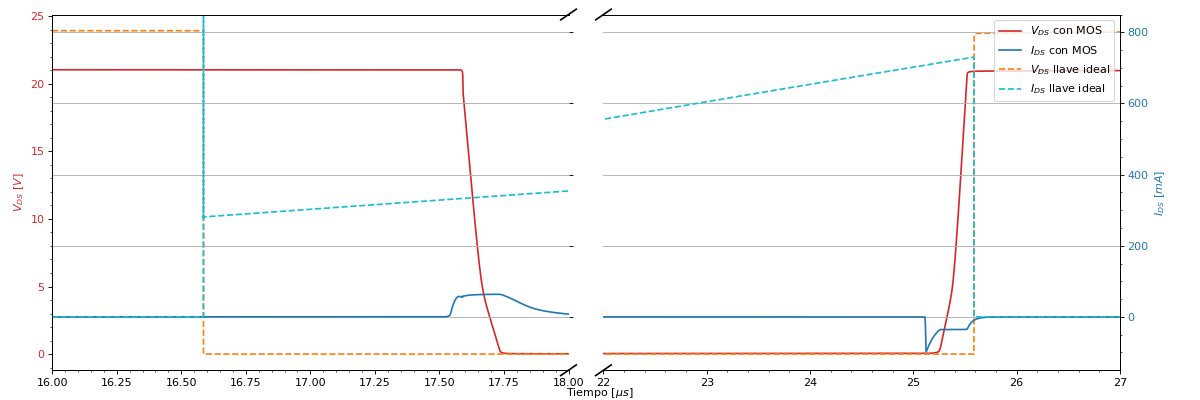
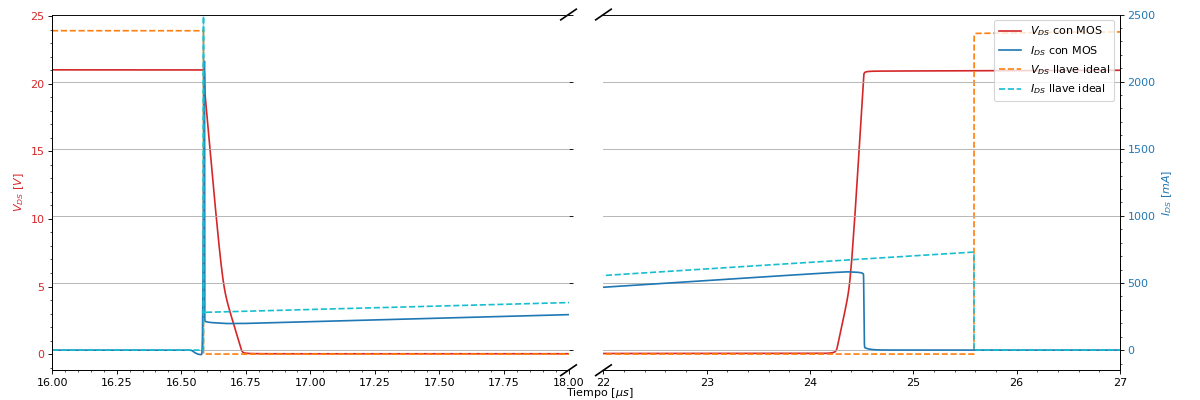
tatoguchi?

diff --git a/TP1/Ejercicio 3/Python/SpiceCurves.py b/TP1/Ejercicio 3/Python/SpiceCurves.py
@@ -160,7 +160,7 @@ t_ej2 = np.abs(np.asarray(LTR_punto2.get_trace(0).data))*1e6
 t_ej1 = np.abs(np.asarray(LTR_punto1.get_trace(0).data))*1e6
 
 show3con2 = True
-show3con1 = True
+show3con1 = False
 
 ##########################################
 ##      COMPARACIÓN PUNTO 3 CON 2       ##
@@ -168,13 +168,13 @@ show3con1 = True
 
 #VDS E IDS CARGA Y DESCARGA
 Vds_ej3 = np.asarray(LTR_punto3.get_trace("V(vd)").data)
-Ids_ej3 = np.asarray(LTR_punto3.get_trace("Ig(M1)").data)
+Ids_ej3 = np.asarray(LTR_punto3.get_trace("Id(M1)").data)
 
 if show3con2:
     Vds_ej2 = np.asarray(LTR_punto2.get_trace("V(vd)").data)
     Ids_ej2 = np.asarray(LTR_punto2.get_trace("I(S1)").data)
 
-    giveMe4WithCrop(t_ej3, Vds_ej3, t_ej3, Ids_ej3*1e3, t_ej2, Vds_ej2, t_ej2, Ids_ej2*1e3, '$V_{DS} \ [V]$', '$I_{DS} \ [mA]$', 'Tiempo $[\mu s]$', '$V_{DS}$ con MOS', '$I_{DS}$ con MOS', '$V_{DS}$ llave ideal', '$I_{DS}$ llave ideal', [16, 18], [22, 27], [-150, 850])
+    giveMe4WithCrop(t_ej3-1, Vds_ej3, t_ej3-1, Ids_ej3*1e3, t_ej2, Vds_ej2, t_ej2, Ids_ej2*1e3, '$V_{DS} \ [V]$', '$I_{DS} \ [mA]$', 'Tiempo $[\mu s]$', '$V_{DS}$ con MOS', '$I_{DS}$ con MOS', '$V_{DS}$ llave ideal', '$I_{DS}$ llave ideal', [16, 18], [22, 27], [-150, 2500])
     plt.savefig('..\..\Tex\Ejercicio-3\ImagenesEjercicio-3\ids-vds-2v3.png')
     plt.show()
 
